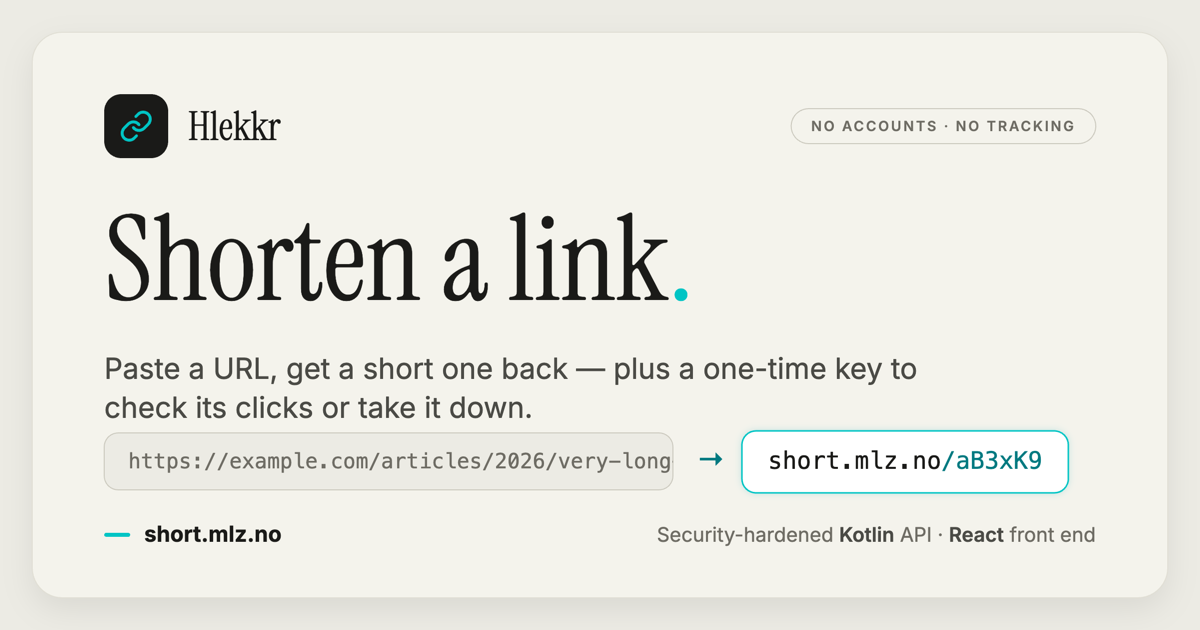
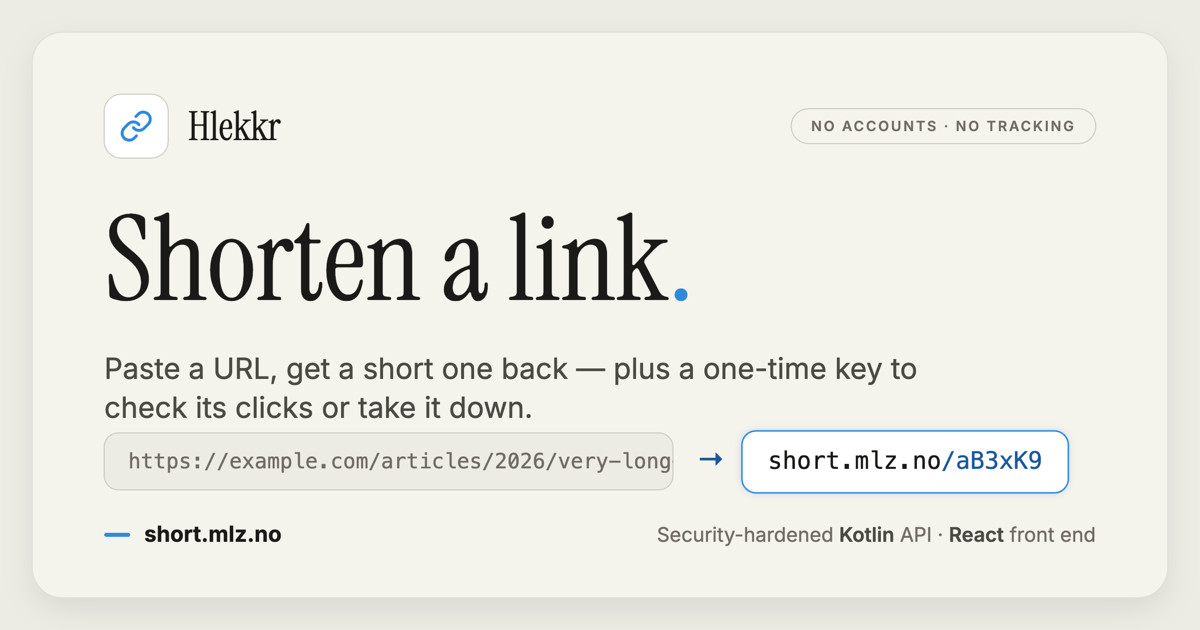
feat: shift Hlekkr branding to blue-and-white and add a name tagline
Adopt the blue accent from the mlz.no design tokens (oklch(0.62 0.15 250))
in place of the teal/cyan, so the accent reads blue everywhere: buttons,
links, focus rings, the headline dot, the result box, and the brand mark.

Rework the logo tile from "teal-on-black" to blue-and-white — a blue chain
on a white tile in the social cards, and a blue tile with a white chain in
the favicon (inverted so it stays legible at 16px). Regenerate og.png,
twitter-card.png, favicon.ico, favicon.svg, and the PNG app icons to match.

Add a subheading under the wordmark in the top-left — "Old Norse for link"
— so the page states what the name means.

Also fix a latent packaging bug: the assets/icons dir was silently excluded
by the global macOS-style "Icon?" gitignore on a case-insensitive
filesystem, so favicon.svg / apple-touch-icon / the PNG icons were never
committed and 404 on a fresh clone. Negate the pattern and track them.

Claude-Session: https://claude.ai/code/session_0152DbwPia7KAUt59VR2Q46C

diff --git a/frontend/src/styles.css b/frontend/src/styles.css
@@ -6,8 +6,8 @@
   --ink-2: #4a4a45;
   --muted: #6e6c64;
   --line: #cbc9be;
-  --accent: oklch(0.74 0.13 195);
-  --accent-deep: oklch(0.52 0.1 200);
+  --accent: oklch(0.62 0.15 250);
+  --accent-deep: oklch(0.46 0.13 255);
   --danger: #8a3324;
   --warn-bg: #f2e7cd;
   --warn-ink: #7a4e15;
@@ -108,12 +108,26 @@ h1 {
 .brand {
   display: inline-flex;
   align-items: center;
-  gap: 9px;
+  gap: 10px;
   font-family: var(--sans);
+  text-decoration: none;
+}
+.brand-text {
+  display: flex;
+  flex-direction: column;
+  gap: 1px;
+  line-height: 1.1;
+}
+.brand-name {
   font-weight: 700;
   font-size: 1.05rem;
   letter-spacing: -0.01em;
-  text-decoration: none;
+}
+.brand-tag {
+  font-weight: 500;
+  font-size: 0.68rem;
+  letter-spacing: 0.01em;
+  color: var(--muted);
 }
 .brand-mark {
   width: 13px;

diff --git a/frontend/src/App.tsx b/frontend/src/App.tsx
@@ -22,7 +22,10 @@ export function App() {
       <header className="topbar">
         <a className="brand" href="/" aria-label="Hlekkr — home" data-umami-event="open-home">
           <span className="brand-mark" aria-hidden="true" />
-          Hlekkr
+          <span className="brand-text">
+            <span className="brand-name">Hlekkr</span>
+            <span className="brand-tag">Old Norse for “link”</span>
+          </span>
         </a>
         <nav className="nav">
           <button
